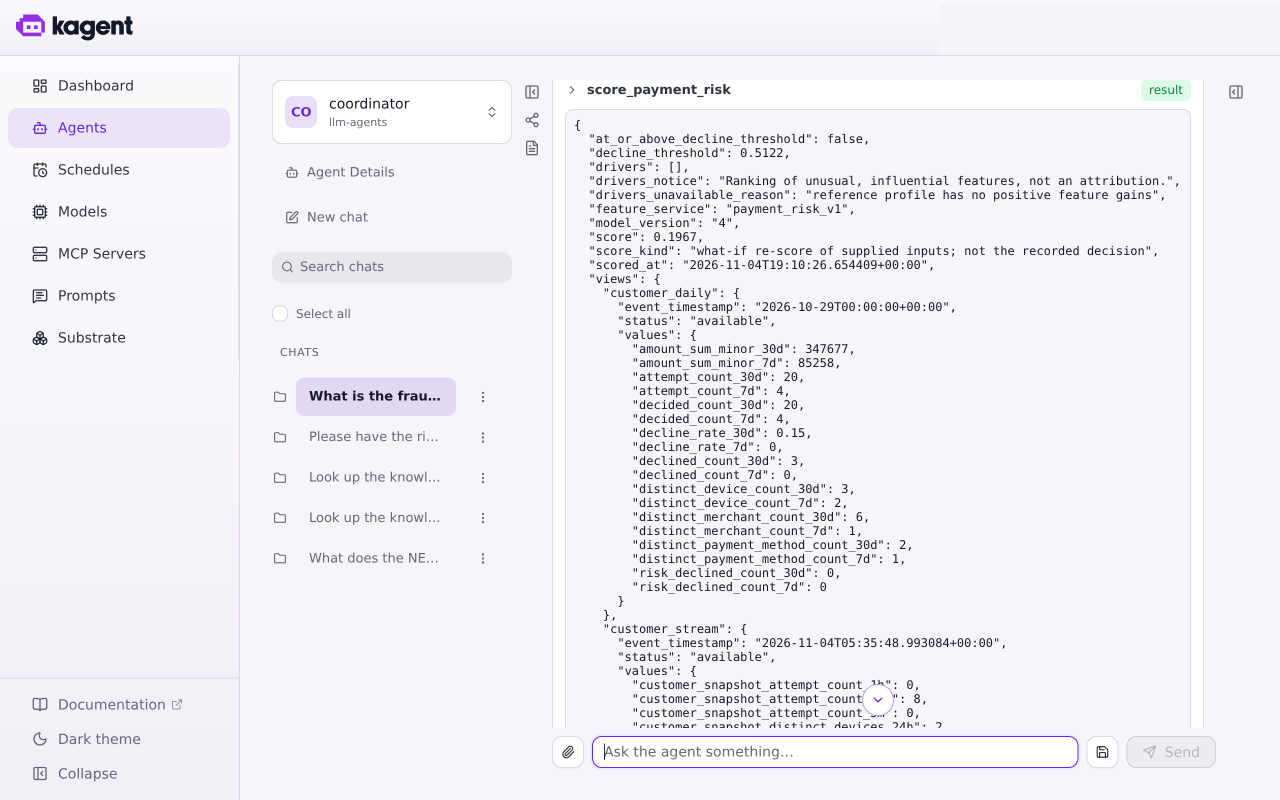
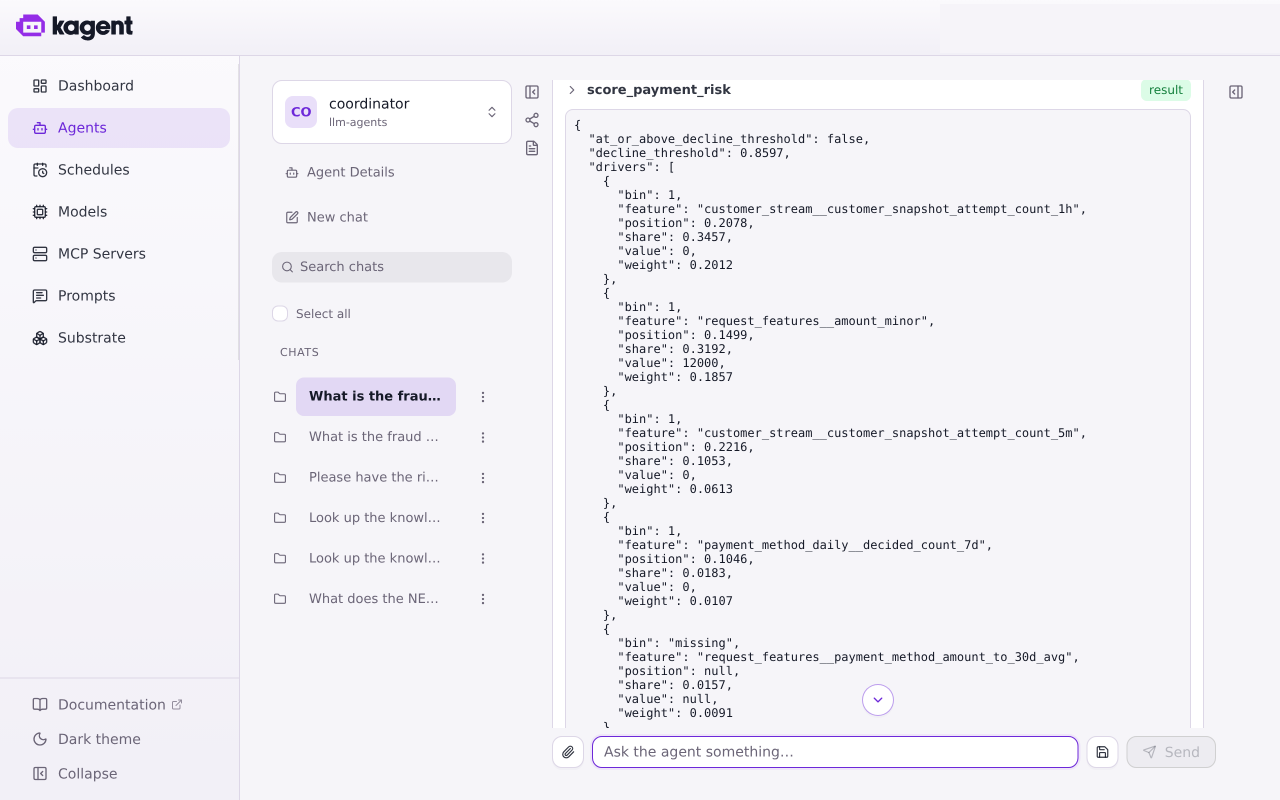
docs(llm): split the risk agent from the agents page and record the v5 chat, trace, dashboard and KEDA scale-out

diff --git a/docs/llm/risk-agent.md b/docs/llm/risk-agent.md
@@ -1,0 +1,91 @@
+# Risk agent: scoring tool
+
+`risk-agent` re-scores a payment with the served fraud model and explains what is unusual about it. It reaches the model through the `risk` MCP server (`risk-serving`), which the agent gateway exposes at `/mcp/risk`. Dev enables the server and `risk-agent` 0.2.0; production keeps the toolless 0.1.0 agent and has no risk server. The agent runtime, registry and prompts are in [Agents](agents.md); the knowledge tools are in [RAG](rag.md).
+
+## Tool
+
+The `risk` server accepts a `request` object with `integration_id`, `customer_id`, `payment_method_fingerprint`, `amount_minor`, both account-creation timestamps, `shipping_country`, `ip_country`, `item_count` and `has_device`. The tool sets the scoring time, so the result is a what-if re-score, not a stored decision.
+
+| Tool | Returns |
+|---|---|
+| `get_risk_features` | The five `payment_risk_v1` views, each with its status (`available`, `missing`, `future`, `expired`, `error`, `timeout`) and values only when `available` |
+| `score_payment_risk` | Probability, model version, decline threshold, `at_or_above_decline_threshold`, every view's status and the drivers |
+
+Missing, expired, future or invalid views contribute NaN to Triton, including ratios derived from unavailable daily views. An upstream error returns no score. There is no step-up threshold in the served model configuration.
+
+Drivers rank feature gain times distance from the training reference distribution; they are not per-prediction attributions. If the reference belongs to another version, the score carries no drivers and says why.
+
+Every number in a result carries at most four decimals, because the gateway masks any run of 13 or more digits as a card number and a full-precision probability has more. `at_or_above_decline_threshold` is computed before rounding. The gateway's phone masking uses word-boundary patterns from `gateway.piiPatterns`, because the built-in `PhoneNumber` rule replaced a 7-digit run inside a payment-method fingerprint.
+
+## Releases
+
+On dev, `risk-serving` is a blue-green Rollout and KEDA targets its scale subresource. A dedicated analysis Job initializes MCP, lists the tools and calls the preview before promotion; a tool error or timeout blocks promotion and keeps the active revision serving. The knowledge server's release is in [RAG](rag.md#dev-releases).
+
+| Release | Pre-promotion analysis | Outcome |
+|---|---|---|
+| `risk-serving` 785f66cfc5, first run | Failed: the Job's 60 s deadline, which counts the image pull | Previous revision stayed active |
+| `risk-serving` 785f66cfc5, retry at 180 s | Successful in 26 s | Promoted |
+| `risk-serving` 756dbb8686 | Successful | Promoted |
+| `risk-serving` 5dcd89f99f, faulty: `MODEL_URL` points at a model server that does not exist | Failed in 27 s (19:40:22 to 19:40:49): `preview returned an MCP tool error` | Rollout aborted; the active Service kept selecting 756dbb8686, and the gateway scored 0.1967 at 19:40:05 during the rollout and at 19:41:09 after it |
+
+The faulty candidate was made by pausing Argo CD's reconcile of the app with the `argocd.argoproj.io/skip-reconcile` annotation, patching one environment variable on the Rollout, and restoring it afterwards; the Rollout returned to Healthy on its original revision. Argo Rollouts skips the analysis on a first install, which has no previous revision to protect; that case was not run.
+
+A new preview pod becomes an endpoint of its Service in the mesh a moment after it is Ready, and the Rollout starts the analysis in the same second it scales the preview up. The analysis client therefore waits up to 150 s for the MCP handshake and retries only connection failures, and the Job's deadline is 300 s.
+
+## Proof on dev
+
+A call to `/mcp/risk` through the gateway with the benchmark key returned 401 without a key, listed `get_risk_features` and `score_payment_risk`, and scored a dev customer at 0.1967 from model v4 against the decline threshold 0.5122, with all five views `available` (748 ms cold, 256 ms warm, three calls).
+
+### Drivers after a retrain
+
+The v4 reference profile recorded no feature gains, because the trainer did not name its features. After the fix on main, a dev retrain on the 4 GB card (`dev-retrain-gains-v5-b`, v4's snapshot and windows, 14 min 11 s, GPU fit 4 min 54 s on the GTX 1650) registered v5 and rolled it out. 48 of its 50 features carry a gain, led by `customer_snapshot_attempt_count_1h` (34.4% of the total), `amount_minor` (26.5%) and `customer_snapshot_attempt_count_5m` (11.0%). A retrain that passes only the snapshot and `force` skips training on dev when the stream tables no longer cover the 84-day window, so this run passed v4's four windows and cutoff explicitly.
+
+### Chat
+
+At 02:12 UTC on 2026-11-05 a kagent chat on v5 sent the coordinator an analyst question with a dev customer and fingerprint. The coordinator transferred to `risk_agent`, which called `get_risk_features` and `score_payment_risk` with the fingerprint unchanged:
+
+![kagent chat: transfer_to_agent risk_agent, then get_risk_features with the analyst's identifiers](images/risk-chat-transfer.png)
+
+The result is model v5, a score of 0.0006 against the decline threshold 0.8597, `at_or_above_decline_threshold` false, and five drivers: `customer_snapshot_attempt_count_1h` (34.57% of the ranking), `amount_minor` (31.92%), `customer_snapshot_attempt_count_5m` (10.53%), `decided_count_7d` of the payment method (1.83%) and `payment_method_amount_to_30d_avg` (1.57%, value missing):
+
+![The score_payment_risk result: model v5, score, decline threshold, at_or_above_decline_threshold false and the drivers](images/risk-chat-tool-result.png)
+
+The answer states the probability, model version, threshold, that the payment is below it, and the top drivers with the caveat that they are not SHAP values or per-prediction explanations:
+
+![The answer: probability 0.0006, model version 5, decline threshold 0.8597, drivers and the caveat](images/risk-chat-answer.png)
+
+One Langfuse trace covers the conversation, tagged `risk-agent:production`, with the coordinator, the risk agent and both tool spans between the model calls:
+
+![Langfuse trace: invoke_agent coordinator, generate_content, transfer_to_agent, invoke_agent risk_agent](images/risk-trace-agents.png)
+
+![The same trace further down: the get_risk_features and score_payment_risk tool spans](images/risk-trace-tools.png)
+
+### Dashboard
+
+The agents dashboard sits in the `LLM` Grafana folder, with the tool panels covering both MCP servers and a Risk tool row. It read 1.04 s mean and 4.63 s p95 for `score_payment_risk` over the 3 hours shown, every feature view `available`, and 2 replicas for both MCP servers:
+
+![Grafana, LLM folder: LLM agents with the Risk tool row, latency, feature views by status and MCP server replicas](images/risk-dashboard.png)
+
+### Autoscaling
+
+The 5 calls/s target per replica is above what the dev chat and a single client generate. To see the scaling, the ScaledObject's target was lowered to 0.5 calls/s per replica for one run and set back to 5 afterwards, and a client sent 240 tool calls through the gateway at an average of 0.97 calls/s (233 succeeded, 7 failed, none rate-limited; the failures were not investigated):
+
+| Time (UTC) | Metric / target | Replicas (desired) |
+|---|---|---|
+| 02:17:40 | 0 / 0.5 | 2 (2) |
+| 02:19:15 | 0.725 / 0.5 | 2 (3) |
+| 02:19:46 | 0.573 / 0.5 | 3 (4) |
+| 02:20:01 | 0.430 / 0.5 | 4 (4) |
+
+The scale-out took 2 → 3 → 4 in 46 s from the first reading over target. The ready count stayed at 3 of 4 until the sampler stopped at 02:24, and scale-down was not observed in that window. The 5 calls/s target itself is still untested, and no risk Locust test exists.
+
+## Prompt
+
+The Langfuse prompt `risk-agent-system-prompt` was published as `production` version 3, with the tool wording and the line asking whether the score is at or above the threshold, and the `variant-b` A/B version as version 4. The catalog seeds only missing prompts, so an existing prompt needs new versions in Langfuse rather than a release.
+
+## Not verified
+
+- A fresh conversation on prompt version 3 was not run. The kagent controller was in `CreateContainerError` after leader election was lost (176 restarts) and the A2A route answered 503, so the chat screenshots above are from the conversation before the publish.
+- A first install of either Rollout, where the analysis is skipped.
+- The 5 calls/s scaling target, scale-down, and why the fourth replica did not become ready.
+- The removal of the charts' GPU placement has not been deployed to production, and the phone masking change is deployed on dev only.

diff --git a/docs/llm/agents.md b/docs/llm/agents.md
@@ -119,59 +119,12 @@ Langfuse is the source of each agent's system prompt and A/B test. [`files/promp
 | Agent conversations | Substrate actors: created on demand, suspended to zero when idle, resumed on any worker | Idle conversations cost nothing; any number wait in snapshots |
 | Agent worker pool (`llm-agents`) | KEDA, 2 to 6 workers on Substrate's busy-worker metric | Workers follow the conversations that hold them |
 | Knowledge API (`rag-api`) | KEDA, 2 to 4 replicas on its combined REST and MCP request rate | Target 10 req/s per replica; a dev Locust run scaled 2 → 4 → 2 |
-| Risk MCP (`risk-serving`) | KEDA, 2 to 4 replicas on tool-call rate | Initial target 5 calls/s per replica; provisional, without a risk Locust benchmark |
+| Risk MCP (`risk-serving`) | KEDA, 2 to 4 replicas on tool-call rate | Initial target 5 calls/s per replica; scale-out observed on dev ([Risk agent](risk-agent.md)) |
 | Model servers | One replica per model | GPU capacity is separate from tool-server scaling |
 
 ## Risk scoring
 
-Dev enables the `risk` server and `risk-agent` 0.2.0; production retains the toolless 0.1.0 agent and has no risk server. The `risk` server accepts a `request` object with `integration_id`, `customer_id`, `payment_method_fingerprint`, `amount_minor`, both account-creation timestamps, `shipping_country`, `ip_country`, `item_count` and `has_device`. The tool sets the scoring time. It returns five view statuses, a probability, model version and decline threshold. Missing, expired, future or invalid views contribute NaN to Triton, including ratios derived from unavailable daily views. An upstream error returns no score. The result is a what-if re-score, not a stored decision.
-
-Drivers rank feature gain times distance from the training reference distribution; they are not per-prediction attributions. If the reference belongs to another version, the score carries no drivers and explains why. There is no step-up threshold in the served model configuration.
-
-On dev, risk and knowledge use blue-green Rollouts. A dedicated analysis Job initializes MCP, lists tools and calls the preview before promotion; tool errors or timeouts block promotion. KEDA owns replicas and Rollouts own active/preview revision selectors. An existing Langfuse prompt and its A/B variant both need new tool-aware versions; the catalog seeds only missing prompts.
-
-Every number in a tool result carries at most four decimals, because the gateway masks any run of 13 or more digits as a card number and a full-precision probability has more. The result also says whether the probability is at or above the decline threshold, computed before rounding.
-
-### Proof on dev, 2026-11-04
-
-A call to `/mcp/risk` through the gateway with the benchmark key returned 401 without a key, listed `get_risk_features` and `score_payment_risk`, and scored a dev customer at 0.1967 from model v4 against the decline threshold 0.5122, with all five views `available` (748 ms cold, 256 ms warm, three calls).
-
-In a kagent chat the coordinator transferred to `risk_agent`, which called `get_risk_features` and `score_payment_risk` with the payment-method fingerprint unchanged and answered with that score and the reason it had no drivers:
-
-![kagent chat: transfer_to_agent risk_agent, then get_risk_features with the analyst's identifiers](images/risk-chat-transfer.png)
-
-![The score_payment_risk result: score 0.1967, decline threshold 0.5122, at_or_above_decline_threshold false, drivers empty with a reason](images/risk-chat-tool-result.png)
-
-![The answer: probability, model version, decline threshold, the customer's view and the drivers caveat](images/risk-chat-answer.png)
-
-One Langfuse trace covers the conversation: 1 min 18 s end to end with 16k tokens, tagged `risk-agent:production`. The coordinator took 16.0 s, `get_risk_features` 0.14 s and `score_payment_risk` 0.67 s; its four `qwen35-4b` calls took 1.2 to 4.6 s.
-
-![Langfuse trace: invoke_agent coordinator, generate_content, transfer_to_agent, invoke_agent risk_agent](images/risk-trace-agents.png)
-
-![The same trace further down: the get_risk_features and score_payment_risk tool spans between the model calls](images/risk-trace-tools.png)
-
-On the promoted revision's two pods, after two chats and one analysis call: `get_risk_features` 2 successes, `score_payment_risk` 3 successes, no failures, 0.22 s and 1.32 s of tool time in total, and every view `available` on every call.
-
-| Release | Pre-promotion analysis | Outcome |
-|---|---|---|
-| `risk-serving` 785f66cfc5, first run | Failed: the Job's 60 s deadline, which counts the image pull | Previous revision stayed active |
-| `risk-serving` 785f66cfc5, retry at 180 s | Successful in 26 s | Promoted |
-| `risk-serving` 756dbb8686 | Successful | Promoted |
-| `rag-api` 7fcf4cbc | Successful in 73 s, waiting for a cold pod | Promoted; one Rollout owns every ReplicaSet and no Deployment remains |
-| `risk-serving` 5dcd89f99f, faulty: `MODEL_URL` points at a model server that does not exist | Failed in 27 s (19:40:22 to 19:40:49): `preview returned an MCP tool error` | Rollout aborted; the active Service kept selecting 756dbb8686, and the gateway scored 0.1967 at 19:40:05 during the rollout and at 19:41:09 after it |
-| `rag-api` 69f45b78c4, faulty: `RAG_DB_HOST` points at a missing database | No analysis: the preview pod failed readiness with 503 for more than 5 min | Never promoted; the active Service kept selecting 7fcf4cbc. The Rollout stayed `Progressing` until the spec was restored, which is why both Rollouts now set `progressDeadlineAbort` |
-
-The faulty candidates were made by pausing Argo CD's reconcile of the app with the `argocd.argoproj.io/skip-reconcile` annotation, patching one environment variable on the Rollout, and restoring it afterwards; both Rollouts returned to Healthy on their original revisions. Argo Rollouts skips the analysis on a first install, which has no previous revision to protect; that case was not run here.
-
-Two causes were found and fixed on the way. A new preview pod becomes an endpoint of its Service in the mesh a moment after it is Ready, and the Rollout starts the analysis in the same second it scales the preview up, so the analysis client waits up to 150 s for the MCP handshake and retries only connection failures. The Job's deadline is 300 s, because it counts the image pull. The first chat also failed: the gateway's `PhoneNumber` masking replaced a 7-digit run inside the fingerprint, so phone numbers are now matched by `gateway.piiPatterns` at word boundaries.
-
-### Drivers after a retrain
-
-The v4 reference profile recorded no feature gains, because the trainer did not name its features. After the fix on main, a dev retrain (`dev-retrain-gains-v5-b`, v4's snapshot and windows, 14 min 11 s, GPU fit 4 min 54 s on the GTX 1650) registered v5 and rolled it out: 48 of its 50 features carry a gain, led by `customer_snapshot_attempt_count_1h` (34.4% of the total), `amount_minor` (26.5%) and `customer_snapshot_attempt_count_5m` (11.0%). The same gateway call then returned model v5, a score of 0.0006 against a decline threshold of 0.8597, and five drivers: `customer_snapshot_attempt_count_1h` (34.5% of the ranking), `amount_minor` (31.9%), `customer_snapshot_attempt_count_5m` (10.5%), `decided_count_7d` of the payment method (1.8%) and `payment_method_amount_to_30d_avg` (1.6%). A retrain that passes only the snapshot and `force` skips training on dev when the stream tables no longer cover the 84-day window, so this run passed v4's four windows and cutoff explicitly.
-
-### Not yet shown
-
-The chat captures above were taken on v4, before the retrain, so they show empty drivers; the drivers below were read from a gateway call and have not been re-captured in a chat. KEDA scale-out under load was not observed: the HPA read 0 of 5 calls/s per replica at two replicas, and the 5 calls/s target is untested. The Langfuse `risk-agent` prompt is still version 1, which has the tool wording but not the line about the threshold flag, and the answer calls the comparison a "Decision". The phone masking change is deployed on dev only, and the removal of the charts' GPU placement has not been deployed anywhere.
+The `risk` MCP server, its Rollouts, drivers, dev proof and open items are in [Risk agent](risk-agent.md).
 
 ## Known limits
 

diff --git a/docs/Home.md b/docs/Home.md
@@ -151,8 +151,9 @@ Open work is planned in [OpenSpec changes](../openspec/changes); finished change
 |---|---|---|---|
 | Inference | Qwen3.5-4B (FP8) chat, Qwen3-Embedding and the d3-edge decision model on vLLM through KServe, one shared GPU | [Inference](llm/inference.md) | Done on dev; [benchmark](llm/inference.md#benchmark) with FP8 KV cache kept |
 | Agent gateway | One gateway for models, MCP tools and REST APIs: per-client keys, rate and token limits, PII masking, mesh-only access | [Agent gateway](llm/gateway.md) | Done on dev |
-| Agents | Global model config; the `coordinator` entry agent behind the A2A gateway with `evidence-agent` (knowledge tools) and `risk-agent` as sub-agents; sandboxed on Agent Substrate with warm start and KEDA-scaled workers; registry | [Agents](llm/agents.md) | Done on dev; the risk agent's scoring tool planned |
+| Agents | Global model config; the `coordinator` entry agent behind the A2A gateway with `evidence-agent` (knowledge tools) and `risk-agent` as sub-agents; sandboxed on Agent Substrate with warm start and KEDA-scaled workers; registry | [Agents](llm/agents.md) | Done on dev |
 | Retrieval | RAG pipeline into Iceberg and a Feast pgvector store, governed in OpenMetadata; Web API by id and MCP tools, autoscaled by KEDA | [RAG](llm/rag.md) | Done on dev |
+| Risk agent | `risk-agent` 0.2.0 with an MCP tool that re-scores a payment through the served fraud model and ranks unusual, influential features; blue-green releases and KEDA | [Risk agent](llm/risk-agent.md) | Done on dev; prompt version and production rollout not yet verified |
 | Prompt management | Prompts managed and versioned in Langfuse (seeded from Git); agents read them at each model call | [Observability](llm/observability.md#prompts) | Done on dev |
 | A/B tests | Prompt A/B tests per agent in Langfuse, compared per version; LLM-version tests on prod | [Observability](llm/observability.md#ab-tests) | Prompt tests done on dev; LLM versions planned for prod |
 | Agent tracing | Agent traces from kagent to Langfuse, linked to prompt versions; LLM, gateway and API metrics in VictoriaMetrics with a Grafana dashboard | [Observability](llm/observability.md) | Done on dev |

diff --git a/docs/llm/rag.md b/docs/llm/rag.md
@@ -122,6 +122,13 @@ KEDA scales `rag-api` from 2 to 4 replicas on its combined REST and MCP request 
 
 On dev, `rag-api` is a blue-green Rollout and KEDA targets its scale subresource. The active Service keeps its name; `rag-api-preview` selects the candidate. A bounded pre-promotion Job lists MCP tools and reads a configured versioned knowledge chunk, using its dedicated analysis identity. A tool error, missing passage or timeout blocks promotion and keeps the active revision serving. The preview starts at one replica, then grows to KEDA's desired count before the Service switches; promotion can briefly require both revisions at full capacity. Argo CD leaves replica counts and revision hash selectors to their controllers. Production retains the Deployment. The existing Locust workload above is retained.
 
+| Release | Pre-promotion analysis | Outcome |
+|---|---|---|
+| `rag-api` 7fcf4cbc | Successful in 73 s, waiting for a cold pod | Promoted; one Rollout owns every ReplicaSet and no Deployment remains |
+| `rag-api` 69f45b78c4, faulty: `RAG_DB_HOST` points at a missing database | No analysis: the preview pod failed readiness with 503 for more than 5 min | Never promoted; the active Service kept selecting 7fcf4cbc. The Rollout stayed `Progressing` until the spec was restored, which is why `progressDeadlineAbort` is set on dev |
+
+The faulty candidate was made by pausing Argo CD's reconcile of the app with the `argocd.argoproj.io/skip-reconcile` annotation, patching one environment variable on the Rollout, and restoring it afterwards; the Rollout returned to Healthy on its original revision.
+
 ### Tests
 
 [`src/llm/rag_serving/tests/test_service.py`](../../src/llm/rag_serving/tests/test_service.py) uses pytest fixtures and mocks for the store and the embedding client (a fake embedder counts gateway calls, the store functions are monkeypatched), and covers the REST paths (200, 404, 422), the MCP tools, validation before any gateway call, readiness, lazy loading, metrics and the app lifespan. The serving member enforces `--cov-fail-under=90`; in CI (Python CI run 41112821278, job `src/llm/rag_serving`, commit 724831f): 14 passed, 98.52% coverage.

diff --git a/openspec/changes/risk-agent-scoring/tasks.md b/openspec/changes/risk-agent-scoring/tasks.md
@@ -51,7 +51,7 @@
 - [x] 8.3 Run a kagent chat where the coordinator transfers to `risk_agent`, which calls the tool through the gateway; capture screenshots of the transfer, the tool call and the answer, and one trace, and record proof and pending items in separate sentences
 - [ ] 8.4 If the Langfuse prompt for `risk-agent` already exists on dev, publish the new `production` version and verify the next conversation uses it
 
-- [ ] 8.5 On dev, record each server's successful pre-promotion AnalysisRun and active revision switch, then demonstrate a failed candidate analysis retaining the previous active revision; record the bounded Job result, active/preview revisions and replica counts as numbers or screenshots, verify Argo CD reconciliation preserves controller-owned fields, and distinguish first-install behavior from an analyzed update
+- [x] 8.5 On dev, record each server's successful pre-promotion AnalysisRun and active revision switch, then demonstrate a failed candidate analysis retaining the previous active revision; record the bounded Job result, active/preview revisions and replica counts as numbers or screenshots, verify Argo CD reconciliation preserves controller-owned fields, and distinguish first-install behavior from an analyzed update
 - [x] 8.6 Record risk's observed tool-call rate, KEDA desired/current replica counts and latency alongside the chat proof; report scaling that was not observed as pending rather than claiming a load-test result, retain the existing knowledge Locust test without adding a risk benchmark, and do not run tests locally
 
 ## 9. GPU claims and dev placement

diff --git a/docs/ml/serving.md b/docs/ml/serving.md
@@ -2,7 +2,7 @@
 
 Go Fraud owns the decision. It validates the attempt, applies the versioned rules policy, retrieves features from the Feast feature server, and, where a model endpoint is configured, calls the Triton model server directly with the features and applies policy to the score. There is no Python coordinator between Go, Feast and Triton. Code: [`src/payment-gateway/fraud`](../../src/payment-gateway/fraud).
 
-The read-only [risk agent tool](../llm/agents.md#risk-scoring) uses the same online features and binary inference protocol for what-if re-scoring.
+The read-only [risk agent tool](../llm/risk-agent.md) uses the same online features and binary inference protocol for what-if re-scoring.
 
 ## Today
 

diff --git a/docs/_Sidebar.md b/docs/_Sidebar.md
@@ -25,6 +25,7 @@
 **LLM**
 
 - [Agents](llm/agents.md)
+- [Risk agent](llm/risk-agent.md)
 - [Inference](llm/inference.md)
 - [Policy](llm/policy.md)
 - [Agent gateway](llm/gateway.md)
